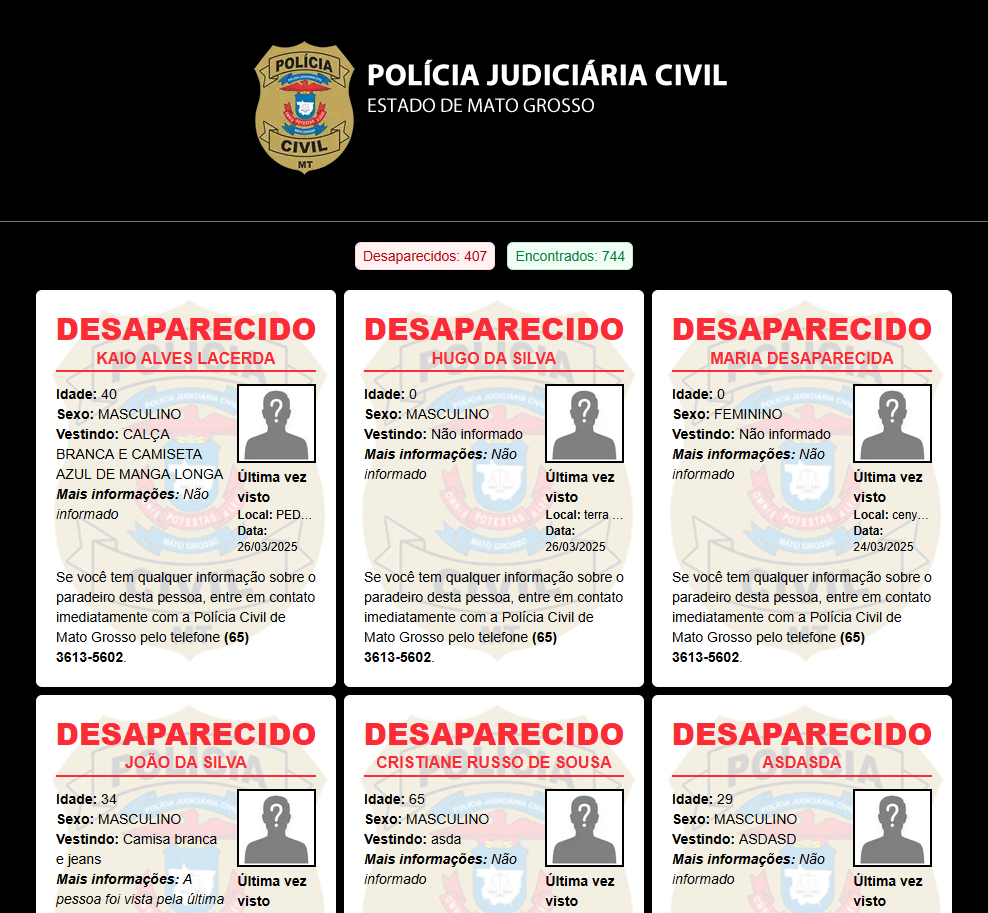
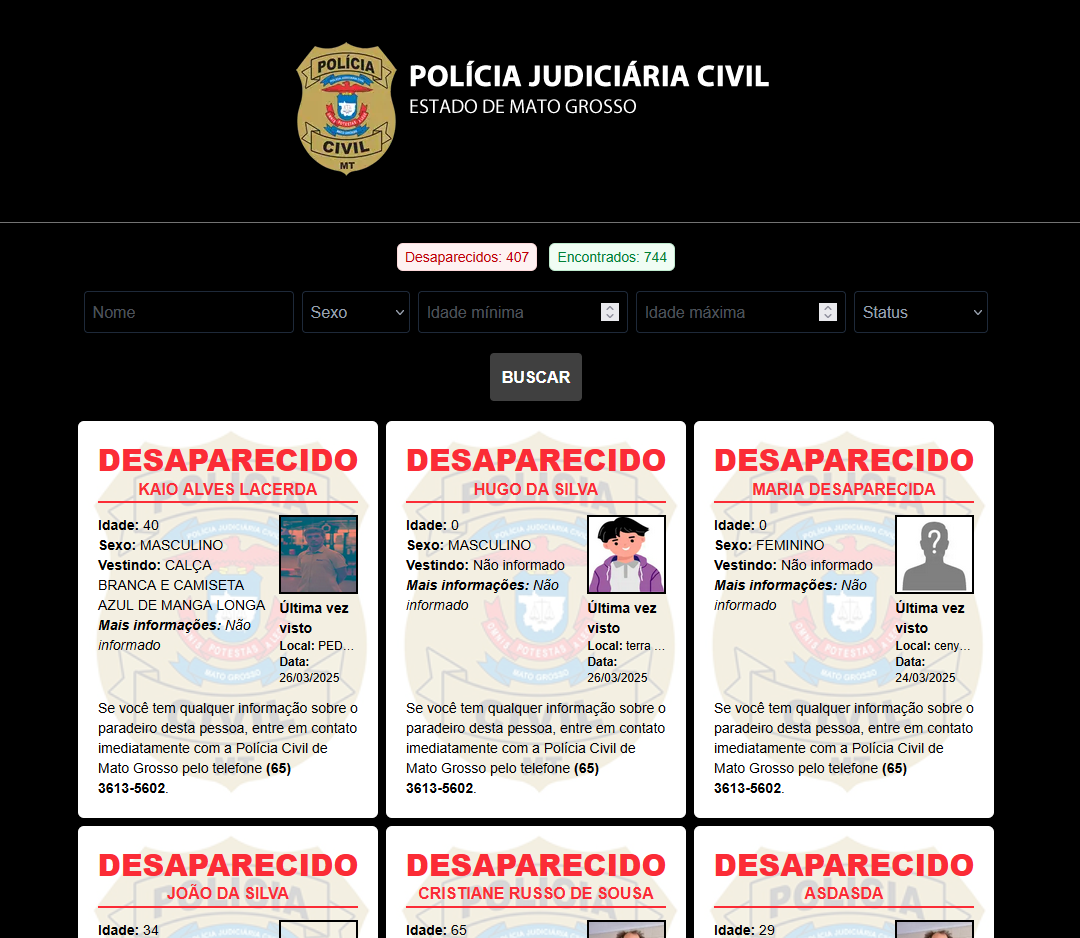
wip: implement filtering

diff --git a/src/components/form-filter.tsx b/src/components/form-filter.tsx
@@ -1,0 +1,103 @@
+'use client'
+
+import { z } from "zod";
+import { useForm } from "react-hook-form";
+import { zodResolver } from "@hookform/resolvers/zod";
+import { useEffect, useState } from "react";
+import { missingPerson } from "@/types";
+import { LoadMore } from "./load-more";
+import { Card } from "./ui/card";
+import { fetchMissingPersons } from "@/actions/fetch-missing-persons";
+
+const schema = z.object({
+  name: z.string().optional(),
+  sex: z.enum(["FEMININO", "MASCULINO", ""], {
+    message: "Sexo inválido",
+  }).optional(),
+  minAge: z.string().optional(),
+  maxAge: z.string().optional(),
+  status: z.enum(["DESAPARECIDO", "LOCALIZADO", ""], {
+    message: "Status inválido",
+  }).optional(),
+});
+
+type FormData = z.infer<typeof schema>;
+
+interface Props {
+  persons: missingPerson[]
+}
+
+export function FormFilter({ persons }: Props) {
+  const [filters, setFilters] = useState({})
+  const [missingPersons, setMissingPersons] = useState(persons)
+
+  const {
+    register,
+    handleSubmit,
+    formState: {
+      isSubmitting,
+    }
+  } = useForm<FormData>({
+      resolver: zodResolver(schema)
+  });
+
+  async function onSubmit(data: FormData) {
+    setFilters({
+      nome: data.name,
+      sexo: data.sex,
+      faixaIdadeInicial: data.minAge,
+      faixaIdadeFinal: data.maxAge,
+      status: data.status,
+    })
+    const response = await fetchMissingPersons(filters)
+    setMissingPersons(response)
+  };
+
+  return (
+    <>
+      <form
+        className="col-span-3 flex flex-col items-center"
+        onSubmit={handleSubmit(onSubmit)}
+      >
+        <div className="flex items-stretch gap-2">
+          <input type="text" id="name" className="text-gray-400 border-1 border-gray-800 rounded p-2" {...register('name')} placeholder="Nome" />
+          <select
+            id="sex"
+            defaultValue=""
+            className="text-gray-400 border-1 border-gray-800 rounded p-2"
+            {...register('sex')}
+          >
+            <option value="">Sexo</option>
+            <option value="FEMININO">Feminino</option>
+            <option value="MASCULINO">Masculino</option>
+          </select>
+          <input type="number" id="min-age" min="0" className="text-gray-400 border-1 border-gray-800 rounded p-2"{...register('minAge')} placeholder="Idade mínima" />
+          <input type="number" id="max-age" min="0" className="text-gray-400 border-1 border-gray-800 rounded p-2"{...register('maxAge')} placeholder="Idade máxima"/>
+          <select
+            id="sex"
+            defaultValue=""
+            className="text-gray-400 border-1 border-gray-800 rounded p-2"
+            {...register('status')}
+          >
+            <option value="">Status</option>
+            <option value="DESAPARECIDO">Desaparecido</option>
+            <option value="LOCALIZADO">Localizado</option>
+          </select>
+        </div>
+        <button
+          type="submit"
+          disabled={isSubmitting}
+          className="bg-neutral-700 mt-5 p-3 rounded font-bold uppercase cursor-pointer"
+          >
+            {isSubmitting ? "Buscando..." : "Buscar"}
+        </button>
+    </form>
+    <div className="grid grid-cols-1 md:grid-cols-2 lg:grid-cols-3 gap-2">
+      {missingPersons.map((person) => (
+        <Card key={person.id} person={person} />
+      ))}
+      <LoadMore persons={missingPersons} />
+    </div>
+    </>
+  )
+}

diff --git a/src/app/page.tsx b/src/app/page.tsx
@@ -1,7 +1,6 @@
 import { fetchMissingPersons } from "../actions/fetch-missing-persons";
 import { fetchMissingAndFoundNumbers } from "../actions/fetch-missing-and-found-numbers";
-import { Card } from "@/components/ui/card";
-import { LoadMore } from "@/components/load-more";
+import { FormFilter } from "@/components/form-filter";
 
 export default async function Home() {
   const [missingPersons, { missingNumber, foundNumber }] = await Promise.all(
@@ -17,12 +16,7 @@ export default async function Home() {
         <span className="inline-flex items-center rounded-md bg-red-50 px-2 py-1 text-sm font-medium text-red-700 ring-1 ring-red-600/10 ring-inset">Desaparecidos: { missingNumber }</span>
         <span className="inline-flex items-center rounded-md bg-green-50 px-2 py-1 text-sm font-medium text-green-700 ring-1 ring-green-600/20 ring-inset">Encontrados: { foundNumber }</span>
       </div>
-      <div className="grid grid-cols-1 md:grid-cols-2 lg:grid-cols-3 gap-2">
-        {missingPersons.map((person) => (
-          <Card key={person.id} person={person} />
-        ))}
-        <LoadMore />
-      </div>
+      <FormFilter persons={missingPersons} />
     </>
   );
 }

diff --git a/src/components/load-more.tsx b/src/components/load-more.tsx
@@ -9,8 +9,12 @@ import { missingPerson } from "@/types";
 
 const delay = (ms: number) => new Promise((resolve) => setTimeout(resolve, ms));
 
-export function LoadMore() {
-  const [missingPersons, setMissingPersons] = useState<missingPerson[]>([]);
+interface Props {
+  persons: missingPerson[]
+}
+
+export function LoadMore({ persons } : Props) {
+  const [missingPersons, setMissingPersons] = useState<missingPerson[]>(persons);
   const [page, setPage] = useState(1);
 
   const { ref, inView } = useInView();
@@ -18,7 +22,7 @@ export function LoadMore() {
   const loadMoreMissingPersons = async () => {
     await delay(2000);
     const nextPage = page + 1;
-    const newMissingPersons = await fetchMissingPersons(nextPage)
+    const newMissingPersons = await fetchMissingPersons({}, nextPage)
     setMissingPersons((prevMissingPersons: missingPerson[]) => {
       const personIds = new Set()
       const missingPersons = [...prevMissingPersons, ...newMissingPersons]

diff --git a/src/actions/fetch-missing-persons.ts b/src/actions/fetch-missing-persons.ts
@@ -5,11 +5,12 @@ import { missingPerson } from "@/types";
 const BASE_URL = process.env.BASE_URL
 
 export async function fetchMissingPersons(
+  filters = {},
   page: number = 0,
   perPage: number = 12
 ): Promise<missingPerson[]> {
   try {
-    const data = await fetch(`${BASE_URL}/pessoas/aberto/filtro?pagina=${page}&porPagina=${perPage}&direcao=DESC`);
+    const data = await fetch(`${BASE_URL}/pessoas/aberto/filtro?${new URLSearchParams(filters).toString()}&pagina=${page}&porPagina=${perPage}&direcao=DESC`);
     const { content: missingPersons } = await data.json();
     return missingPersons
   } catch (error) {
